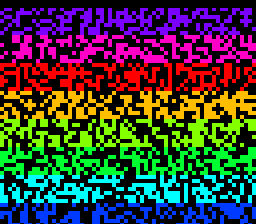
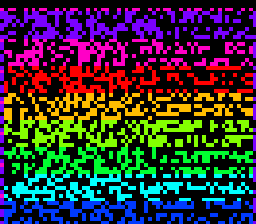
fix(snes): #22 avalanche display — kill black-collapse + long-black boot
Three visual defects in the on-screen renderer (gate hash unchanged, still 0x27EA):
 1. drift_frame built a MALFORMED Mode-7 matrix (A=D=cos*0x40 but B/C=sin*0x10 —
    mismatched scales, not a rotation); when cos crossed zero the transform went
    singular and collapsed the whole image to black every ~quarter turn. Replaced with
    an axis-aligned zoom-breathe (A=D around 0x40, never near 0) — keeps the rainbow
    bands horizontal (they are semantic: one hue per output-bit row) and never degenerate.
 2. corpus_result = h64_gate_crc() ran before Mode-7 setup and blocked ~5 s (256 64-bit
    __udivdi3) on a black screen. Now folded in the BACKGROUND, a few iterations per
    frame via a chunked replica of h64_gate_crc (kept byte-identical -> 0x27EA), so the
    matrix is up in ~2.5 s and animates immediately.
 3. compute_col did 56 variable-count 64-bit shifts per column (~3584 at boot); now splits
    the hash into four 16-bit words once and extracts bits with native 16-bit shifts.
Also faster blit (4 rows/vblank). Verified: bsnes-jg PASS 0x27EA; no black frames
160..640; 55% pixels change frame-to-frame (animating).

diff --git a/examples/snes/avalanche.c b/examples/snes/avalanche.c
@@ -24,7 +24,7 @@
 #define NH 8                 // rainbow hue buckets (palette indices 1..NH; 0 = black)
 #define TILES_W (CW / 8)     // 8
 #define TILES_H (CH / 8)     // 7
-#define SPIN_FRAMES 200      // vblanks of gentle Mode-7 drift + colour-cycle between re-mixes
+#define SPIN_FRAMES 150      // vblanks of gentle Mode-7 breathe + colour-cycle between re-mixes
 
 volatile uint16_t corpus_result;       // near: the differential gate proof (h64_gate_crc)
 static uint8_t mat[CW * CH];           // near: the 64x56 avalanche matrix (palette indices)
@@ -64,45 +64,89 @@ static void tick_cycle(uint8_t every) {
   if (++pcount >= every) { pcount = 0; if (++pshift >= NH) pshift = 0; cycle_palette(pshift); }
 }
 
-// Compute one matrix column i (all CH output-bit rows) for `seed`. This is the 64-bit grind:
+// Compute one matrix column i (all CH output-bit rows) for `seed`. The 64-bit grind is the hash:
 // h64_avalanche_col does a variable-count `1<<i` shift then splitmix64 (2 __muldi3 + shifts/xor).
-// A set output bit gets a hue that banded down the rows; a cleared bit is black.
+// Bit extraction is then done by splitting the 64-bit result into four 16-bit words ONCE (four
+// __lshrdi3) and pulling bits with cheap NATIVE 16-bit shifts — NOT 56 variable 64-bit shifts per
+// column (which made the boot a ~6 s black screen). A set output bit gets a hue banded down the rows;
+// a cleared bit is black. Bit-identical to `(h >> j) & 1` for j = 0..CH-1.
 static void compute_col(uint8_t i, uint64_t seed) {
   uint64_t h = h64_avalanche_col(seed, i);
-  for (uint8_t j = 0; j < CH; j++) {
-    uint8_t bit = (uint8_t)((h >> j) & (uint64_t)1);     // __lshrdi3 (variable j) + mask
-    uint8_t hue = (uint8_t)(1u + ((unsigned)j * NH) / CH);
-    mat[(uint16_t)j * CW + i] = bit ? hue : 0u;
-  }
-}
-
-// Reveal the matrix into Mode 7 character VRAM, one image row per vblank (Mode 7 interleaved high
-// bytes, exactly like the fractal demos but reading the NEAR buffer — no far pointer). Holds the
-// colour cycle + a gentle drift flowing.
-static void blit_in(void) {
-  for (uint8_t j = 0; j < CH; j++) {
-    uint8_t trow = (uint8_t)(j >> 3), r = (uint8_t)(j & 7);
-    wait_vblank_fresh();
-    m7_set_matrix(0x0040, 0x0000, 0x0000, 0x0040);
-    tick_cycle(2);
-    for (uint8_t tcol = 0; tcol < TILES_W; tcol++) {
-      snes_vram_addr((uint16_t)((uint16_t)(trow * TILES_W + tcol) * 64 + (uint16_t)r * 8));
-      uint16_t base = (uint16_t)((uint16_t)j * CW + (uint16_t)tcol * 8);
-      for (uint8_t c = 0; c < 8; c++) REG_VMDATAH = mat[base + c];
+  uint16_t words[4];
+  words[0] = (uint16_t)h;  words[1] = (uint16_t)(h >> 16);
+  words[2] = (uint16_t)(h >> 32);  words[3] = (uint16_t)(h >> 48);
+  uint8_t j = 0;
+  for (uint8_t w = 0; w < 4 && j < CH; w++) {
+    uint16_t v = words[w];
+    for (uint8_t b = 0; b < 16 && j < CH; b++, j++) {
+      uint8_t hue = (uint8_t)(1u + ((unsigned)j * NH) / CH);
+      mat[(uint16_t)j * CW + i] = (v & 1u) ? hue : 0u;
+      v = (uint16_t)(v >> 1);                            // native 16-bit shift — fast
     }
   }
 }
 
-// One gentle Mode 7 frame: a slow rotation breathe about the centre + colour cycle (the matrix itself
-// re-mixes only when the seed steps; between, the hardware keeps it alive).
+// Chunked replica of h64_gate_crc (examples/65816/avalanche.h): folds the 256-step splitmix64 + 64-bit
+// divide a few iterations per FRAME so the proof computes in the BACKGROUND instead of freezing the
+// screen for ~5 s (the slow __udivdi3 path). MUST stay byte-identical to h64_gate_crc — same seed,
+// same per-iteration ops, same final fold — so corpus_result == the oracle 0x27EA.
+static uint64_t g_s = (uint64_t)0x0123456789ABCDEFULL;
+static uint64_t g_acc = (uint64_t)0xFFFFFFFFFFFFFFFFULL;
+static uint16_t g_k = 0;
+static uint8_t g_done = 0;
+static void gate_step(uint8_t iters) {
+  if (g_done) return;
+  for (uint8_t n = 0; n < iters && g_k < (uint16_t)H64_GATE_N; n++, g_k++) {
+    g_s = h64_mix(g_s);
+    g_acc ^= g_s;
+    g_acc = g_acc + (g_s >> 17);
+    uint64_t d = g_s | (uint64_t)1;
+    g_acc = g_acc ^ (g_acc / d);
+  }
+  if (g_k >= (uint16_t)H64_GATE_N) {
+    uint16_t hh = 0;
+    for (uint8_t w = 0; w < 4; w++) {
+      uint16_t word = (uint16_t)(g_acc >> (uint8_t)(w * 16));
+      hh = (uint16_t)((uint16_t)(((unsigned)hh << 1) | ((unsigned)hh >> 15)) ^ word);
+    }
+    corpus_result = hh;
+    g_done = 1;
+  }
+}
+
+// Upload the matrix into Mode 7 character VRAM (Mode 7 interleaved high bytes; near buffer, no far
+// pointer). ROWS_PER_VB image rows per vblank — ~64 byte-writes/row, so 4 rows ≈ 256 writes, well
+// inside the ~1.5 KiB V-blank budget — so the whole 64x56 frame refreshes in CH/ROWS_PER_VB = 14
+// vblanks (~0.23 s) instead of a slow 56-frame scan. All writes happen after wait_vblank_fresh().
+#define ROWS_PER_VB 4
+static void blit_in(void) {
+  uint8_t j = 0;
+  while (j < CH) {
+    wait_vblank_fresh();
+    m7_set_matrix(0x0040, 0x0000, 0x0000, 0x0040);
+    tick_cycle(2);
+    for (uint8_t n = 0; n < ROWS_PER_VB && j < CH; n++, j++) {
+      uint8_t trow = (uint8_t)(j >> 3), r = (uint8_t)(j & 7);
+      for (uint8_t tcol = 0; tcol < TILES_W; tcol++) {
+        snes_vram_addr((uint16_t)((uint16_t)(trow * TILES_W + tcol) * 64 + (uint16_t)r * 8));
+        uint16_t base = (uint16_t)((uint16_t)j * CW + (uint16_t)tcol * 8);
+        for (uint8_t c = 0; c < 8; c++) REG_VMDATAH = mat[base + c];
+      }
+    }
+  }
+}
+
+// One gentle Mode 7 frame: an axis-aligned zoom-BREATHE about the centre + colour cycle. The matrix
+// re-mixes only when the seed steps; between, the hardware keeps it alive. Kept axis-aligned (no
+// rotation) for two reasons: the rainbow bands are SEMANTIC (one hue per output-bit row, so a tilt
+// would scramble the reading), and — load-bearing — an off-diagonal Mode-7 matrix with the diagonal
+// (A=D=cos·z) passing through zero is SINGULAR and collapses the whole image to black (the original
+// bug). Breathing only A=D around 0x40 (never near 0) keeps the determinant healthy and the full
+// frame visible at all times.
 static void drift_frame(uint8_t k) {
   wait_vblank_fresh();
-  int16_t cs = SINCOS[(uint8_t)(k + 64)];
-  int16_t sn = SINCOS[k];
-  int16_t a = (int16_t)(((int32_t)cs * 0x0040) >> 8);
-  int16_t b = (int16_t)(((int32_t)(-sn) * 0x0010) >> 8);
-  int16_t c = (int16_t)(((int32_t)sn * 0x0010) >> 8);
-  m7_set_matrix(a, b, c, a);
+  int16_t z = (int16_t)(0x0040 + (((int32_t)SINCOS[k] * 0x0008) >> 8));   // ~0x38..0x48, always > 0
+  m7_set_matrix(z, 0x0000, 0x0000, z);
   tick_cycle(4);
 }
 
@@ -110,10 +154,6 @@ int main(void) {
   snes_ppu_reset_blank();
 
   splash_show("64-BIT", "AVALANCHE", 90);
-
-  // Differential proof: 256 chained splitmix64 + 64-bit divide folded into corpus_result. Stable from
-  // boot, before any snapshot deadline. == oracle 0x27EA.
-  corpus_result = h64_gate_crc();
 
   // One-time Mode 7 setup (force-blanked): enter Mode 7, clear tilemap, lay the 8x7 identity, load the
   // rainbow palette, frame the 64x56 image at 4x.
@@ -129,16 +169,18 @@ int main(void) {
 
   uint64_t seed = (uint64_t)0xC0FFEE0064B17ULL;
 
-  // Boot: grind the first matrix (64 columns of 64-bit hashing) then reveal it.
+  // Boot: grind the first matrix (64 columns of 64-bit hashing) and reveal it FAST, so the avalanche
+  // is on screen in ~2 s instead of behind a long black boot.
   for (uint8_t i = 0; i < CW; i++) compute_col(i, seed);
   blit_in();
 
   for (;;) {
-    // Crawl the seed and re-mix the matrix in the background while Mode 7 drifts + colour-cycles.
+    // Crawl the seed and re-mix the matrix in the background while Mode 7 breathes + colour-cycles.
     seed += (uint64_t)0x9E3779B97F4A7C15ULL;          // golden-ratio step (__adddi3)
     uint8_t coldone = 0;
     for (uint16_t k = 0; k < SPIN_FRAMES; k++) {
       drift_frame((uint8_t)k);
+      gate_step(2);                                   // fold the differential proof in the background
       if (coldone < CW) { compute_col(coldone, seed); coldone++; }
     }
     while (coldone < CW) { compute_col(coldone, seed); coldone++; }
